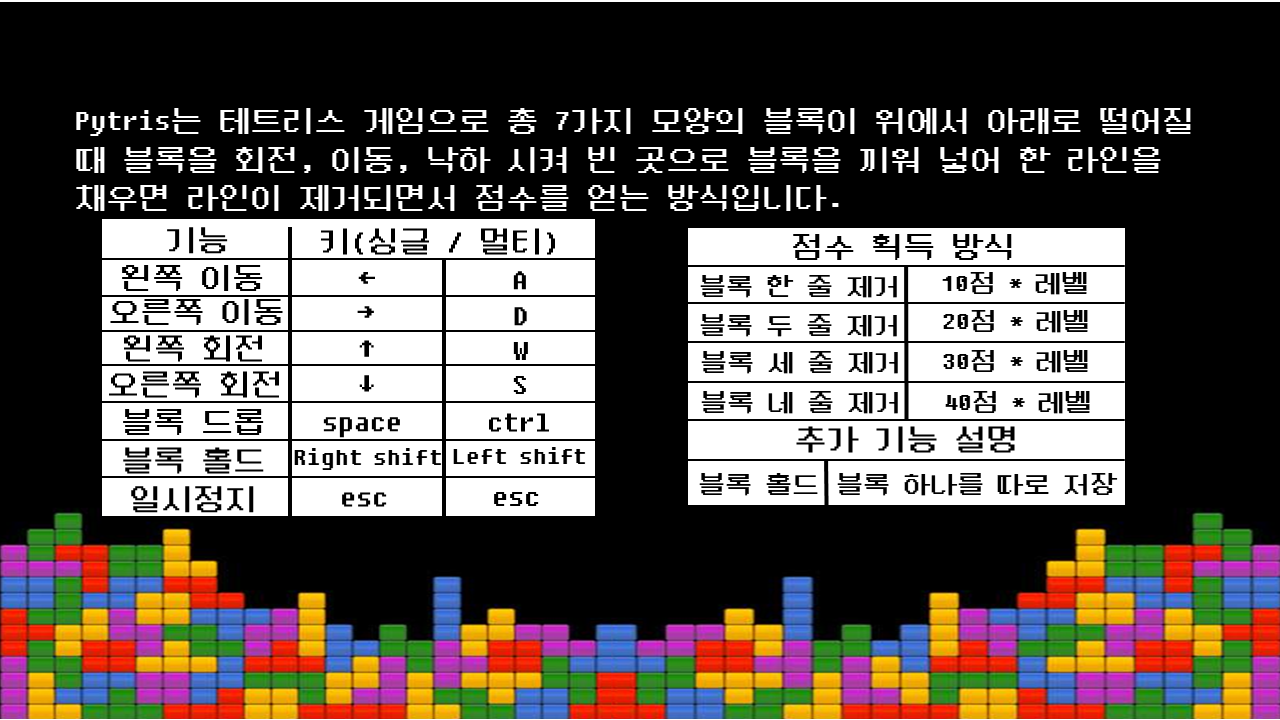
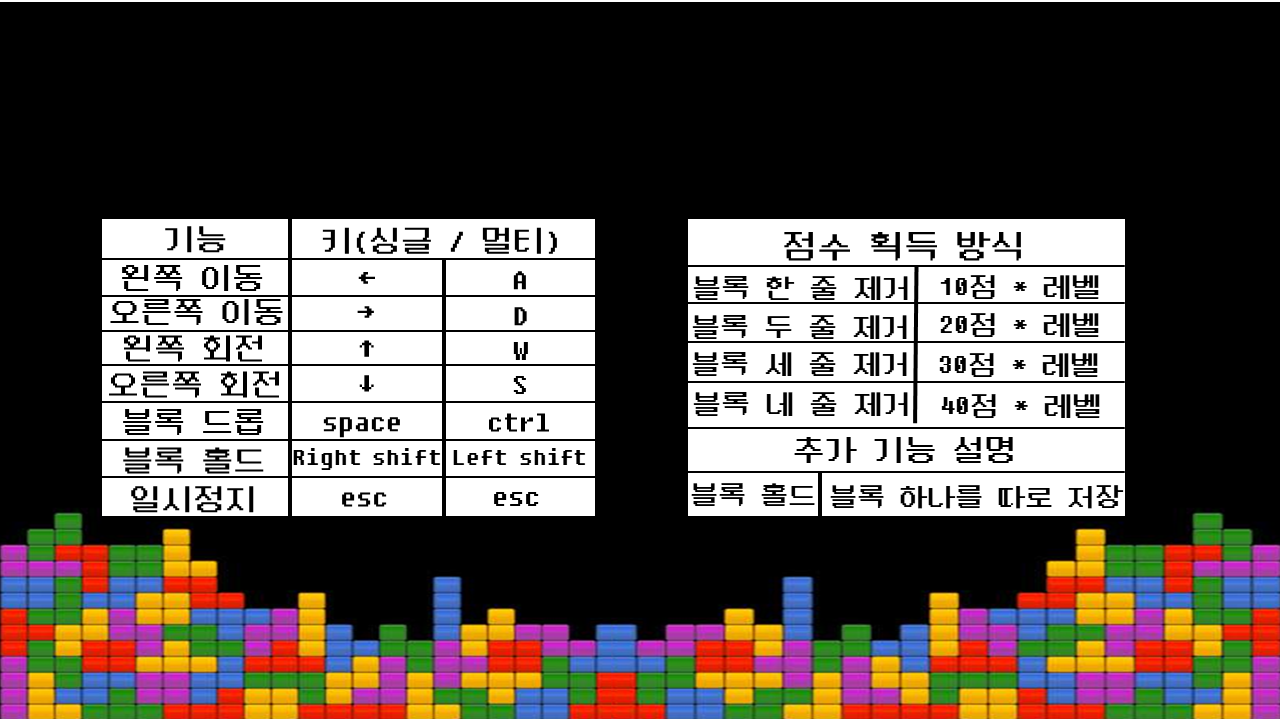
설명창 글자 위치 조정 중

Changed region(s): [[0.0625, 0.1528, 0.9375, 0.7333], [0.2188, 0.6111, 0.3438, 0.6417], [0.4062, 0.6111, 0.4375, 0.6417]]

diff --git a/src/pytris.py b/src/pytris.py
@@ -979,12 +979,19 @@ while not done:
                 manual_image()
 
                 show_score_manual = ui_variables.DG_small.render("Manual", 1, ui_variables.white)
+                show_desc1_manual = ui_variables.DG_small.render("Pytris는 테트리스 게임으로 총 7가지 모양의 블록이 위에서 아래로 떨어질", 1, ui_variables.white)
+                show_desc2_manual = ui_variables.DG_small.render("때 블록을 회전, 이동, 낙하 시켜 빈 곳으로 블록을 끼워 넣어 한 라인을", 1, ui_variables.white)
+                show_desc3_manual = ui_variables.DG_small.render("채우면 라인이 제거되면서 점수를 얻는 방식입니다.", 1, ui_variables.white)
 
                 pygame.draw.line(screen, ui_variables.white,
                 [0, int(screen_height*0.055)],
                 [screen_width,int(screen_height*0.055)],2)
 
                 screen.blit(show_score_manual, (int(screen_width*0.3)+int(int(screen_width*0.3)*0.5), int(screen_height*0.06)))
+
+                screen.blit(show_desc1_manual, (int(screen_width*0.1)+int(int(screen_width*0.1)*0.5), int(screen_height*0.12)))
+                screen.blit(show_desc2_manual, (int(screen_width*0.1)+int(int(screen_width*0.1)*0.5), int(screen_height*0.2)))
+                screen.blit(show_desc3_manual, (int(screen_width*0.1)+int(int(screen_width*0.1)*0.5), int(screen_height*0.2.8)))
 
                 pygame.draw.line(screen, ui_variables.white,
                 [0, int(screen_height*0.125)],
